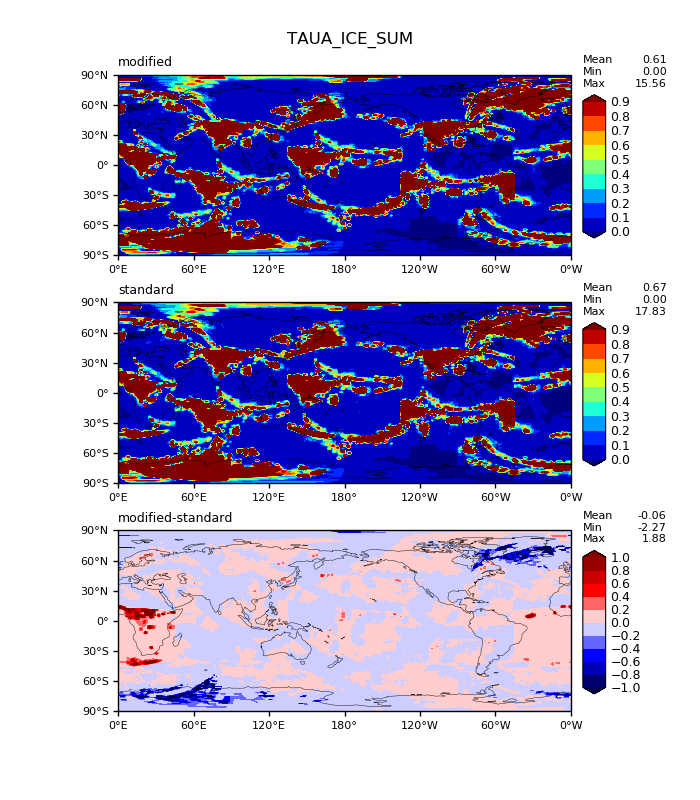
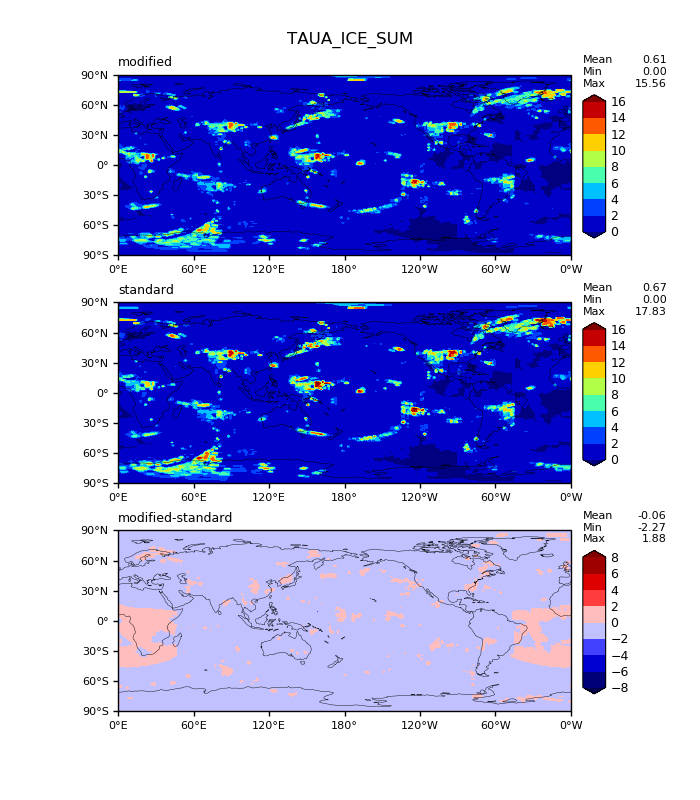
plot tau ice

Changed region(s): [[0.15, 0.6562, 0.93, 0.9062], [0.15, 0.0938, 0.9, 0.3438], [0.15, 0.375, 0.9, 0.625]]

diff --git a/d1_lon_lat_contour_model_vs_model_tau.py b/d1_lon_lat_contour_model_vs_model_tau.py
@@ -111,10 +111,10 @@ for i in range(0,3):
         #cnlevels=np.arange(125,300,20)
         #cnlevels=np.arange(70,420,30)
         #cnlevels=np.arange(20,150,10)
-        cnlevels=np.arange(0,1,0.1)
+        cnlevels=np.arange(0,18,2)
     else:
         #cnlevels=np.arange(-9,10,1.5)
-        cnlevels=np.arange(-1,1.2,0.2)
+        cnlevels=np.arange(-8,10,2)
         #cnlevels=np.arange(-0.8,1.0,0.2)
         #cnlevels=np.arange(0.0,3.0,0.2)
         #cnlevels=np.array([-4,-3.5,-3,-2.5,-2,-1.5,-1.,-0.5,0.5,1.,1.5,2.,2.5,3.,3.5,4.]) #parameters["diff_levs"]
